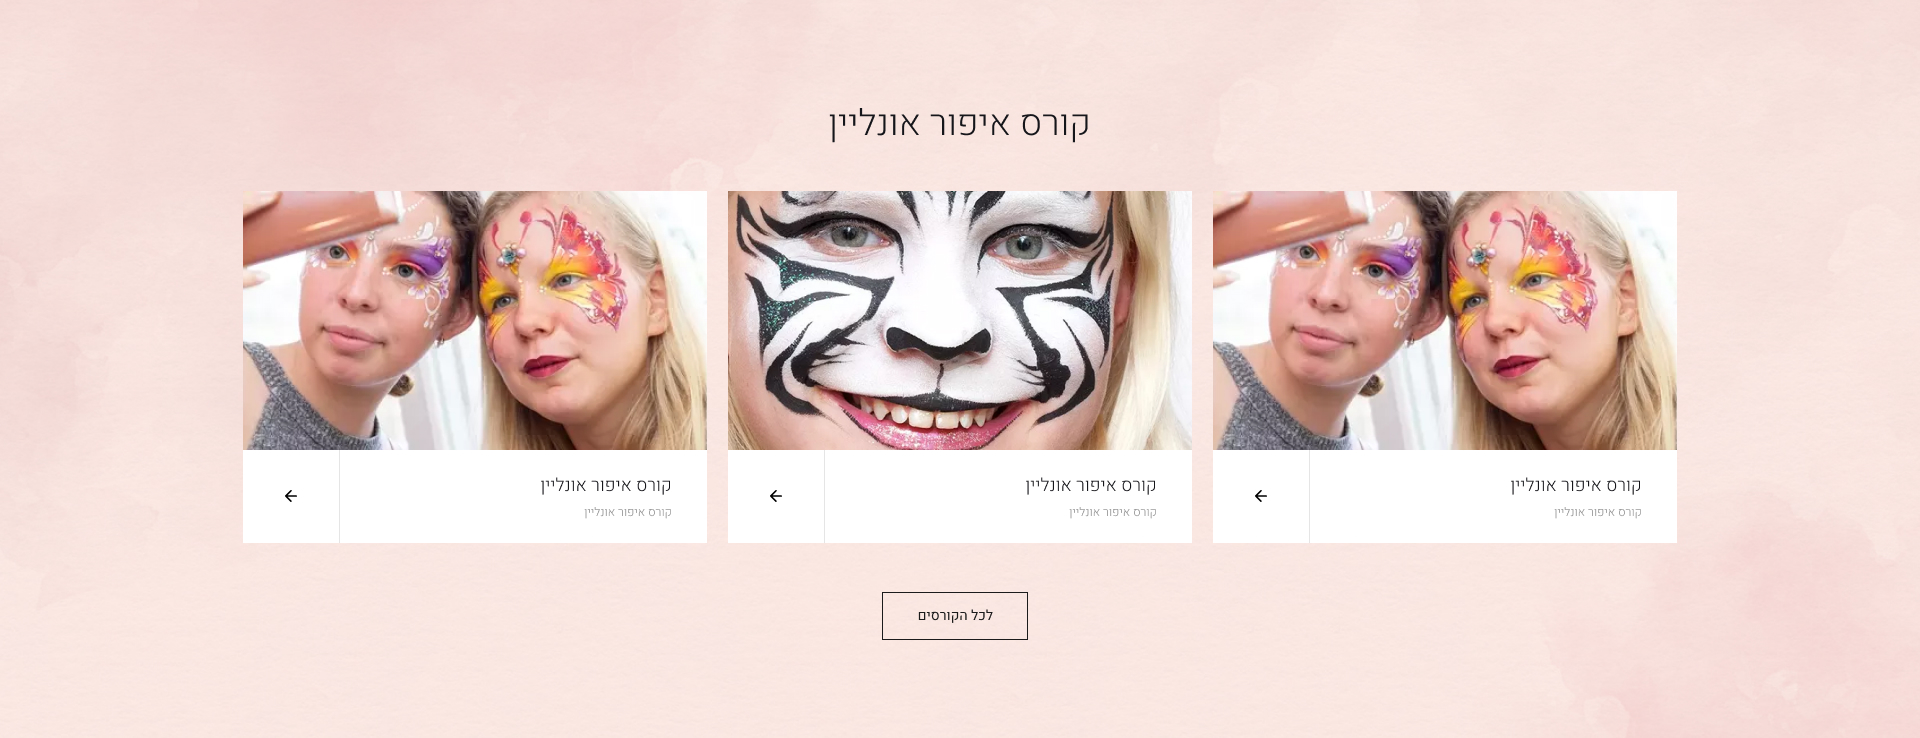
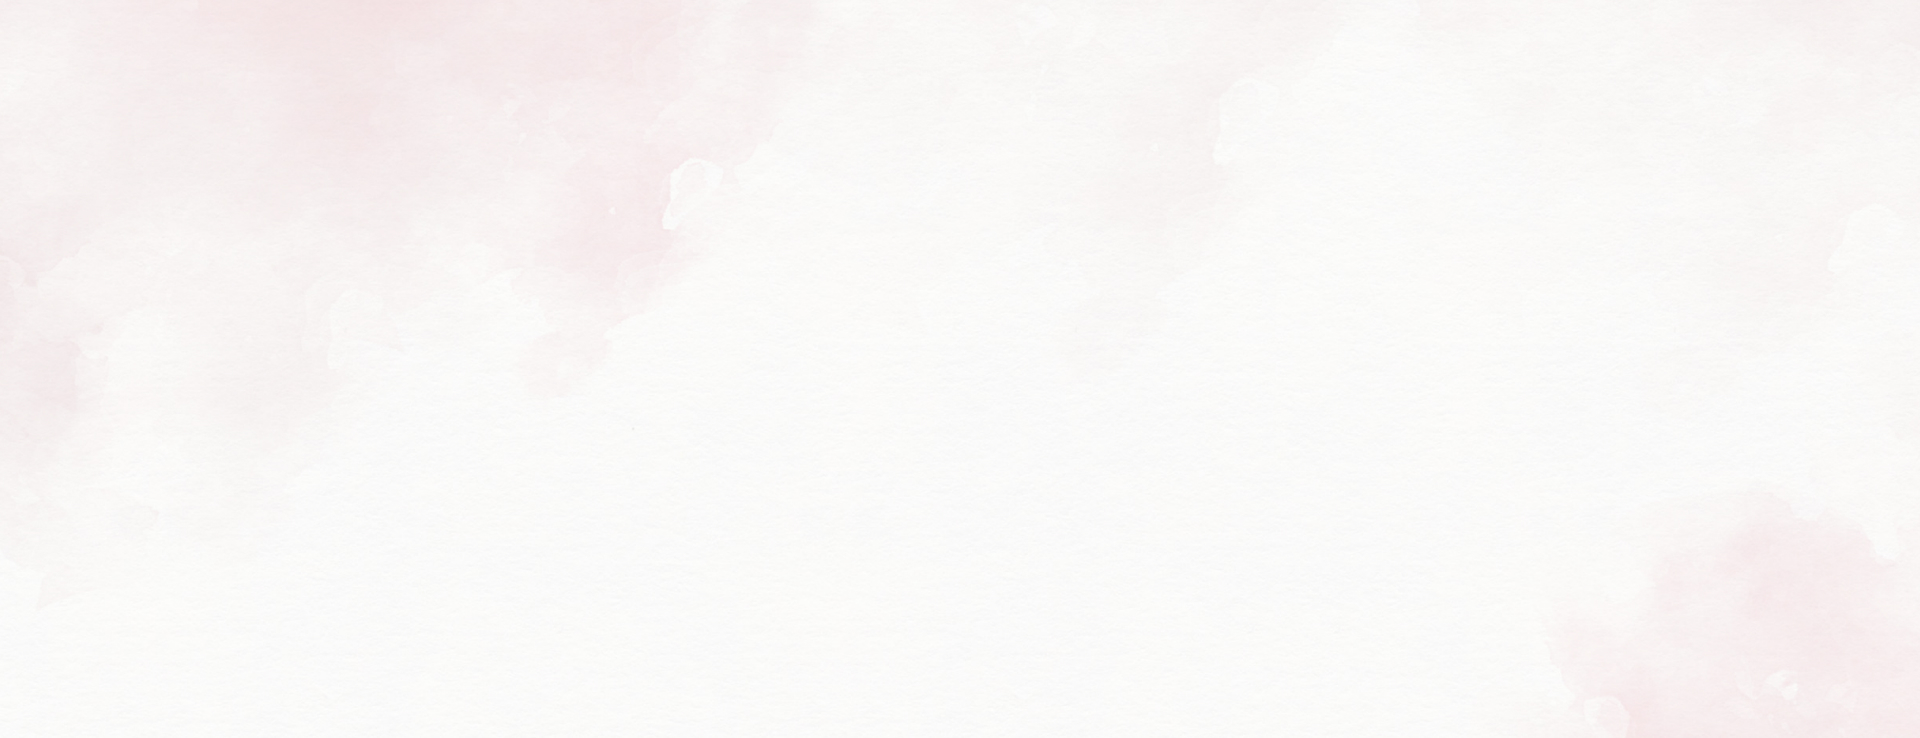
start

diff --git a/css/style.css b/css/style.css
@@ -688,3 +688,308 @@ header .header__top .header__top-right{
     text-decoration: line-through;
     margin-right: 10px;
 }
+
+#latest{
+    padding: 40px 0;
+}
+
+
+#latest .slider .item{
+    width: 330px;
+    height: 466px;
+    position: relative;
+    margin-right: 20px;
+    display: inline-block;
+    vertical-align: top;
+}
+
+#latest .slider .item .item_top{
+    height: 400px;
+    width: 100%;
+    position: relative;
+    border: 1px solid #ECECEC;
+    box-sizing: border-box;
+    display: flex;
+    align-items: center;
+    justify-content: center;
+}
+
+#latest .slider .item .item_top span{
+    position: absolute;
+    top: 24px;
+    left: 24px;
+    z-index: 5;
+    font-family: Heebo;
+    font-style: normal;
+    font-weight: 500;
+    font-size: 10px;
+    line-height: 15px;
+    text-transform: uppercase;
+    color: #FFFFFF;
+    background: #020202;
+    display: block;
+    padding: 2px 10px;
+}
+
+#latest .slider .item .item_top .buttons_block{
+    position: absolute;
+    bottom: 31px;
+    left: 19px;
+    z-index: 5;
+}
+
+#latest .slider .item .item_top .buttons_block a{
+    background: #FFFFFF;
+    box-shadow: 0px 4px 23px rgba(0, 0, 0, 0.06);
+    width: 62px;
+    height: 62px;
+    border-radius: 62px;
+    display: flex;
+    justify-content: center;
+    align-items: center;
+    margin-top: 12px;
+}
+
+#latest .slider .item .item_top .buttons_block a:hover{
+    background: #FEEBE7;
+    box-shadow: 0px 4px 23px rgba(0, 0, 0, 0.06);
+}
+
+#latest .slider .item .producttitle{
+    padding: 20px 0 10px;
+    font-family: Heebo;
+    font-style: normal;
+    font-weight: normal;
+    font-size: 16px;
+    line-height: 134.88%;
+    text-transform: uppercase;
+    color: #1B1B1B;
+    display: block;
+    text-align: center;
+}
+
+#latest .slider .item .price{
+    font-family: Heebo;
+    font-style: normal;
+    font-weight: normal;
+    font-size: 14px;
+    line-height: 21px;
+    text-transform: uppercase;
+    color: #15161A;
+    display: block;
+    text-align: center;
+}
+
+#latest .slider .item .price .old{
+    text-decoration: line-through;
+}
+
+#news{
+    background: url('../images/back4.png') bottom center no-repeat #FEEBE7;
+    padding: 20px 0;
+}
+
+#news .wrapper{
+    display: flex;
+    justify-content: space-between;
+    align-items: flex-start;
+}
+
+#news .wrapper .item{
+    width: 464px;
+
+}
+
+#news .wrapper .item .image img{
+    width: 100%;
+}
+
+#news .wrapper .item .image{
+    height: 259px;
+    overflow: hidden;
+}
+
+#news .wrapper .item .flex{
+    justify-content: space-between;
+    align-items: center;
+    display: flex;
+    background: #FFFFFF;
+}
+
+#news .wrapper .item .flex a{
+    display: flex;
+    flex: none;
+    width: 93px;
+    height: 93px;
+    justify-content: center;
+    align-items: center;
+    opacity: 0.1;
+    border-right: 1px solid #000000;
+}
+
+#news .wrapper .item .flex .info{
+    padding: 22px 35px;
+    text-align: right;
+}
+
+#news .wrapper .item .flex .info .title{
+    font-family: Heebo;
+    font-style: normal;
+    font-weight: 300;
+    font-size: 18px;
+    line-height: 26px;
+    text-transform: uppercase;
+    color: #15161A;
+}
+
+#news .wrapper .item .flex .info .desc{
+    font-family: Heebo;
+    font-style: normal;
+    font-weight: 300;
+    font-size: 12px;
+    line-height: 18px;
+    text-transform: uppercase;
+    color: #868686;
+    text-align: right;
+}
+
+#news .buttons{
+    padding: 50px 0 70px;
+    text-align: center;
+}
+
+a.button{
+    display: inline-block;
+    padding: 13px 35px;
+    font-family: Heebo;
+    font-style: normal;
+    font-weight: normal;
+    font-size: 14px;
+    line-height: 21px;
+    text-transform: uppercase;
+    color: #1B1B1B;
+    border: 1px solid #1B1B1B;
+    box-sizing: border-box;
+}
+
+
+#news2{
+    padding: 90px 0 30px;
+    position: relative;
+}
+
+#news2 .center{
+    display: flex;
+    flex-direction: row-reverse;
+    justify-content: space-between;
+}
+
+#news2 .mainblock{
+    width: 340px;
+    text-align: center;
+    margin-top: 60px;
+    margin-right: 50px;
+}
+
+#news2 .mainblock .title{
+    font-family: Heebo;
+    font-style: normal;
+    font-weight: 300;
+    font-size: 36px;
+    line-height: 53px;
+    text-transform: uppercase;
+    color: #15161A;
+    margin-bottom: 35px;
+}
+
+#news2 .mainblock .controls{
+
+}
+
+#news2 .mainblock .controls .tl,#news2 .mainblock .controls .tr{
+    width: 62px;
+    height: 62px;
+    box-sizing: border-box;
+    display: inline-flex;
+    justify-content: center;
+    align-items: center;
+    border-radius: 62px;
+    border: 1px solid #ECECEC;
+    margin: 0 6px;
+    cursor: pointer;
+}
+
+#news2 .slider_wrapper{
+    width: calc(100% - 390px);
+}
+
+#news2 .slider .item{
+    width: 335px;
+    border: 1px solid #ECECEC;
+    box-sizing: border-box;
+    display: inline-block;
+    vertical-align: top;
+    margin-left: 10px;
+}
+#news2 .slider .item:last-child{
+    margin-left: 0;
+}
+
+#news2 .slider .item img{
+    display: block;
+    width: 100%;
+}
+
+#news2 .slider .item .image{
+    height: 240px;
+    overflow: hidden;
+}
+
+#news2 .slider .item .flex{
+    text-align: right;
+    padding: 24px 30px 30px;
+    box-sizing: border-box;
+}
+
+#news2 .slider .item .flex .title{
+    font-family: Heebo;
+    font-style: normal;
+    font-weight: 300;
+    font-size: 18px;
+    line-height: 26px;
+    text-transform: uppercase;
+    color: #15161A;
+    text-align: right;
+}
+
+#news2 .slider .item .flex .desc{
+    font-family: Heebo;
+    font-style: normal;
+    font-weight: 300;
+    font-size: 14px;
+    line-height: 21px;
+    text-transform: uppercase;
+    color: #868686;
+    text-align: right;
+
+}
+
+#gallery{
+    padding: 40px 0;
+}
+
+#gallery .wrapper{
+    display: flex;
+    justify-content: space-between;
+    align-items: center;
+}
+
+#bback{
+    background-image: url("../images/back9.png");
+    background-repeat: no-repeat;
+    background-position: bottom center;
+}
+
+#container{
+    background: url("../images/back1.png") left 1900px no-repeat, url("../images/back2.png") right 2200px no-repeat, url("../images/back3_.png") left 2900px no-repeat, url("../images/back3.png") right 3200px no-repeat;
+}

diff --git a/index.htm b/index.htm
@@ -288,6 +288,7 @@
         <div class="center">
             <div class="section_title">שדח המ</div>
             <div class="slider_wrapper">
+                <div class="slider">
                 <div class="item">
                     <div class="item_top">
                         <span>New</span>
@@ -356,7 +357,7 @@
                         <div class="new">₪ 4.00</div>
                     </div>
                 </div>
-
+                </div>
             </div>
         </div>
     </section>
@@ -369,38 +370,42 @@
                 <div class="item">
                     <div class="image"><img src="images/n1.png" alt=""></div>
                     <div class="flex">
-                        <a href="#"><img src="images/arrow.svg" alt=""></a>
                         <div class="info">
                             <div class="title">ןיילנוא רופיא סרוק</div>
                             <div class="desc">ןיילנוא רופיא סרוק</div>
                         </div>
+
+                        <a href="#"><img src="images/arrow.svg" alt=""></a>
                     </div>
                 </div>
                 <div class="item">
                     <div class="image"><img src="images/n2.png" alt=""></div>
                     <div class="flex">
-                        <a href="#"><img src="images/arrow.svg" alt=""></a>
                         <div class="info">
                             <div class="title">ןיילנוא רופיא סרוק</div>
                             <div class="desc">ןיילנוא רופיא סרוק</div>
                         </div>
+                        <a href="#"><img src="images/arrow.svg" alt=""></a>
                     </div>
                 </div>
                 <div class="item">
                     <div class="image"><img src="images/n3.png" alt=""></div>
                     <div class="flex">
-                        <a href="#"><img src="images/arrow.svg" alt=""></a>
                         <div class="info">
                             <div class="title">ןיילנוא רופיא סרוק</div>
                             <div class="desc">ןיילנוא רופיא סרוק</div>
                         </div>
+                        <a href="#"><img src="images/arrow.svg" alt=""></a>
                     </div>
                 </div>
+            </div>
+            <div class="buttons">
+                <a href="#" class="button">םיסרוקה לכל</a>
             </div>
         </div>
     </section>
 
-
+    <div id="bback">
     <section id="news2">
         <div class="center">
             <div class="mainblock">
@@ -408,8 +413,8 @@
                     <br>ימגא ילש תאמ
                 </div>
                 <div class="controls">
-                    <div class="tl"><img src="images/tl.svg" alt=""></div>
                     <div class="tr"><img src="images/tr.svg" alt=""></div>
+                    <div class="tl"><img src="images/tl.svg" alt=""></div>
                 </div>
             </div>
             <div class="slider_wrapper">
@@ -471,7 +476,7 @@
             </div>
         </div>
     </section>
-
+    </div>
     <footer>
         <div class="center">
             <div class="col1">
